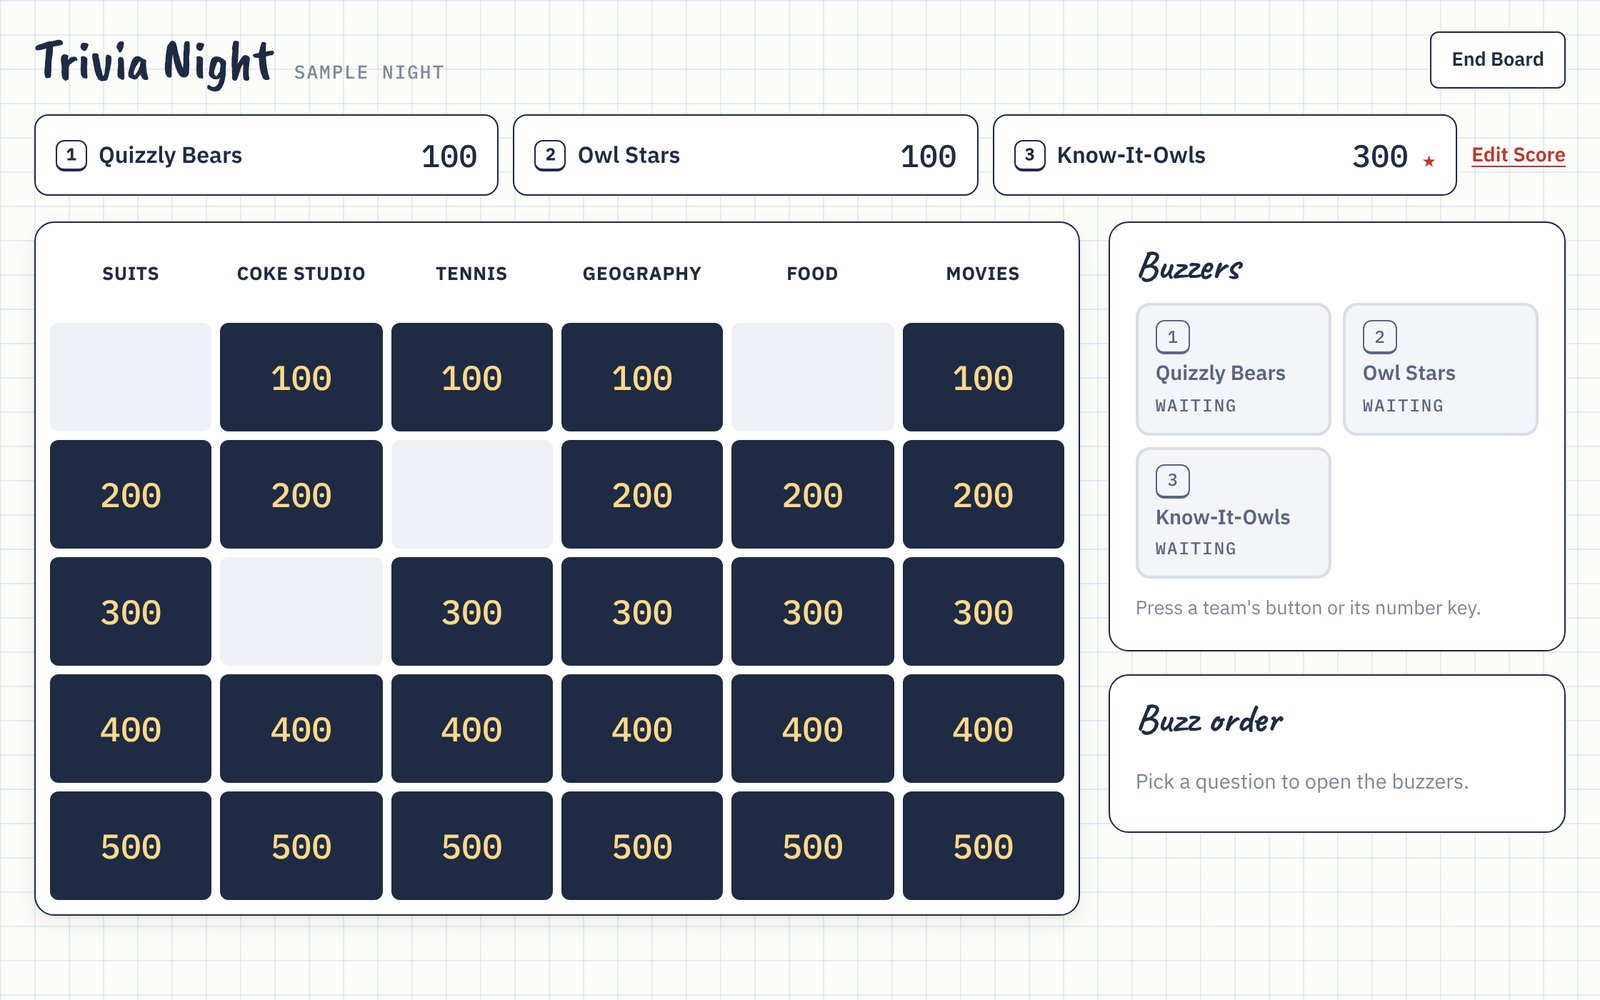
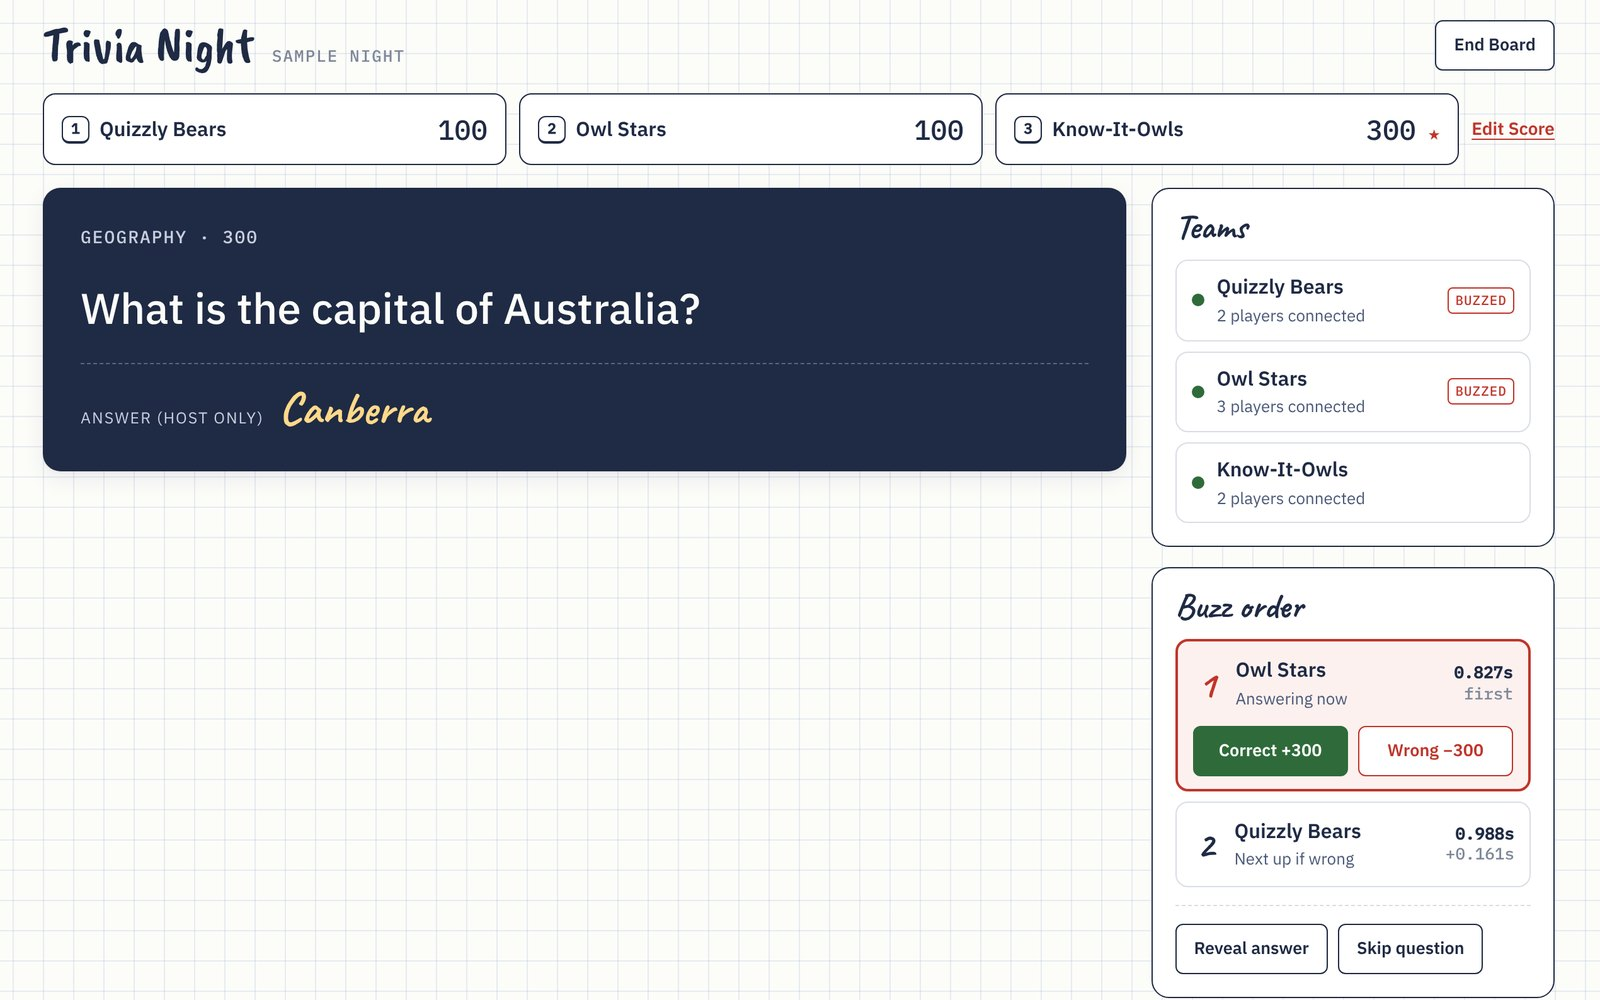
Lab: new intro line, Trivia Night description and buzzing screenshot
Claude-Session: https://claude.ai/code/session_01AofzTShEXo8Hu1Rqmd7pGK

diff --git a/lab/index.html b/lab/index.html
@@ -6,9 +6,9 @@
   <!-- Keeps this page out of Google until launch. Remove all of these lines to go live in search. -->
   <meta name="robots" content="noindex, nofollow">
   <title>Lab · Dhriti Varma</title>
-  <meta name="description" content="Prototypes, agents and side projects Dhriti Varma has built with AI.">
+  <meta name="description" content="How Dhriti Varma has been using AI to boost productivity and explore personal interests.">
   <meta property="og:title" content="Lab · Dhriti Varma">
-  <meta property="og:description" content="Prototypes, agents and side projects Dhriti Varma has built with AI.">
+  <meta property="og:description" content="How Dhriti Varma has been using AI to boost productivity and explore personal interests.">
   <link rel="icon" href="../assets/img/favicon.svg" type="image/svg+xml">
   <link rel="preconnect" href="https://fonts.googleapis.com">
   <link rel="preconnect" href="https://fonts.gstatic.com" crossorigin>

diff --git a/data/lab.js b/data/lab.js
@@ -20,13 +20,13 @@
 
 window.LAB = {
   title: "Things I've Built",
-  intro: "Prototypes, agents and side projects I've made with AI",
+  intro: "How I have been using AI to boost productivity and explore personal interests",
 
   projects: [
     {
       title: "Trivia Night",
       type: "Side project",
-      blurb: "Jeopardy-style trivia for video-call game nights: live buzzers on everyone's phone, questions drafted with Claude.",
+      blurb: "Host a Jeopardy-style trivia for friends and family over video call. Live buzzers on everyone's phone, questions drafted by you and Claude.",
       image: "../assets/img/lab/trivia-night.jpg",
       cta: "How It Works",
       video: "",          // add the ~60s MP4 here once it's recorded
